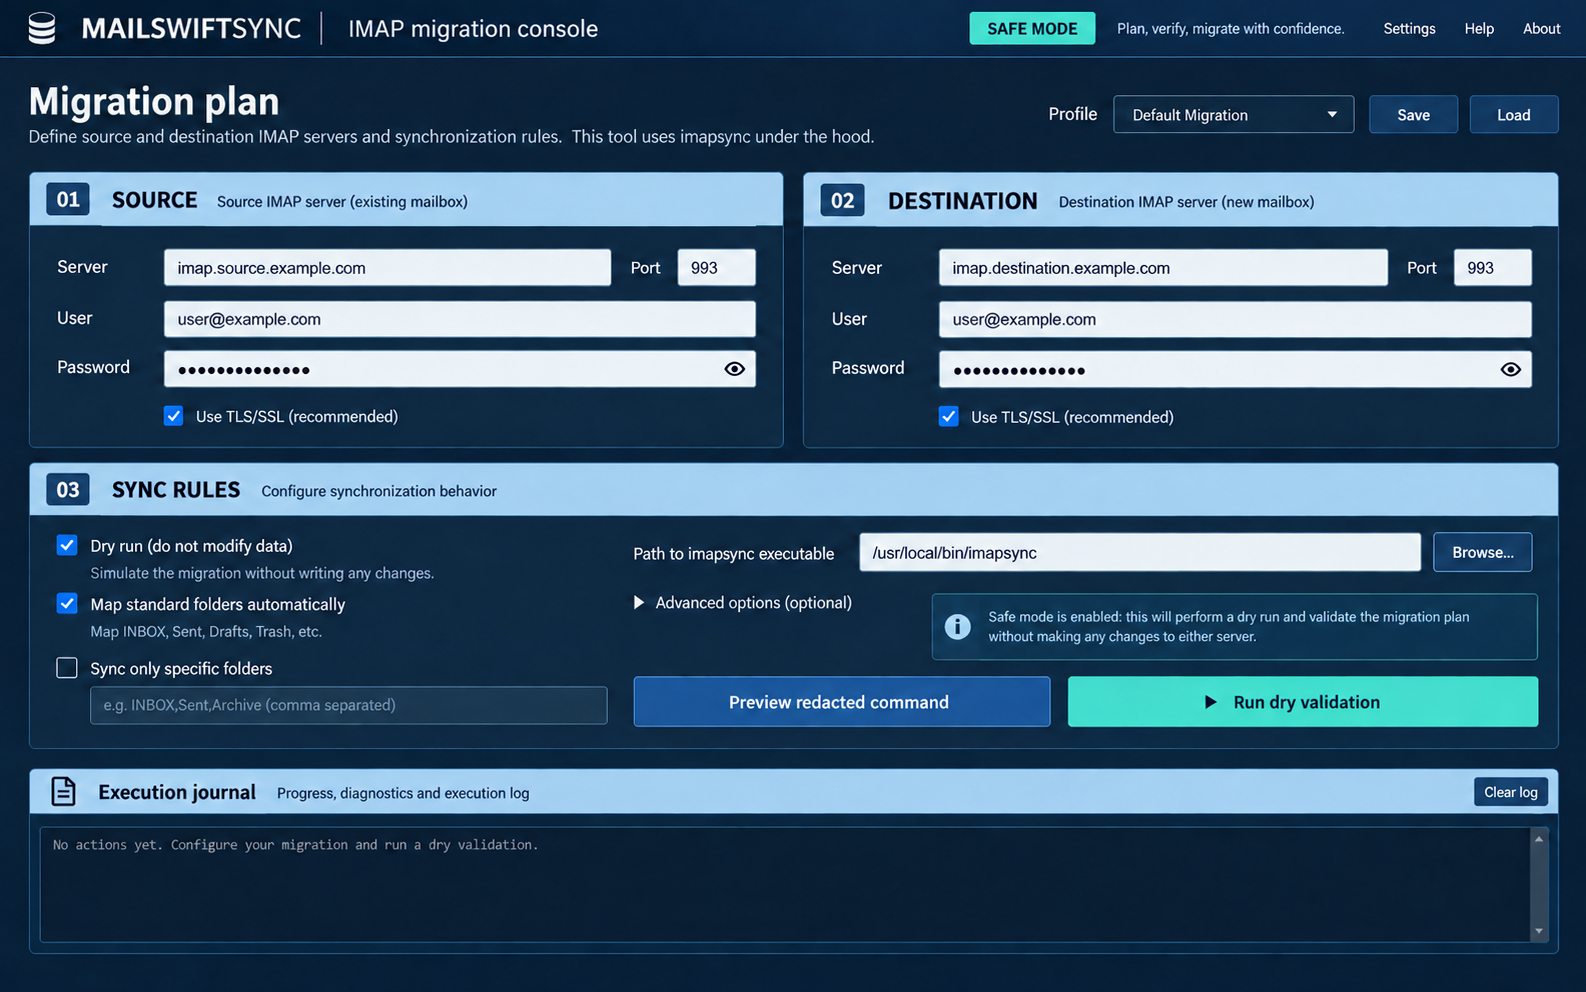
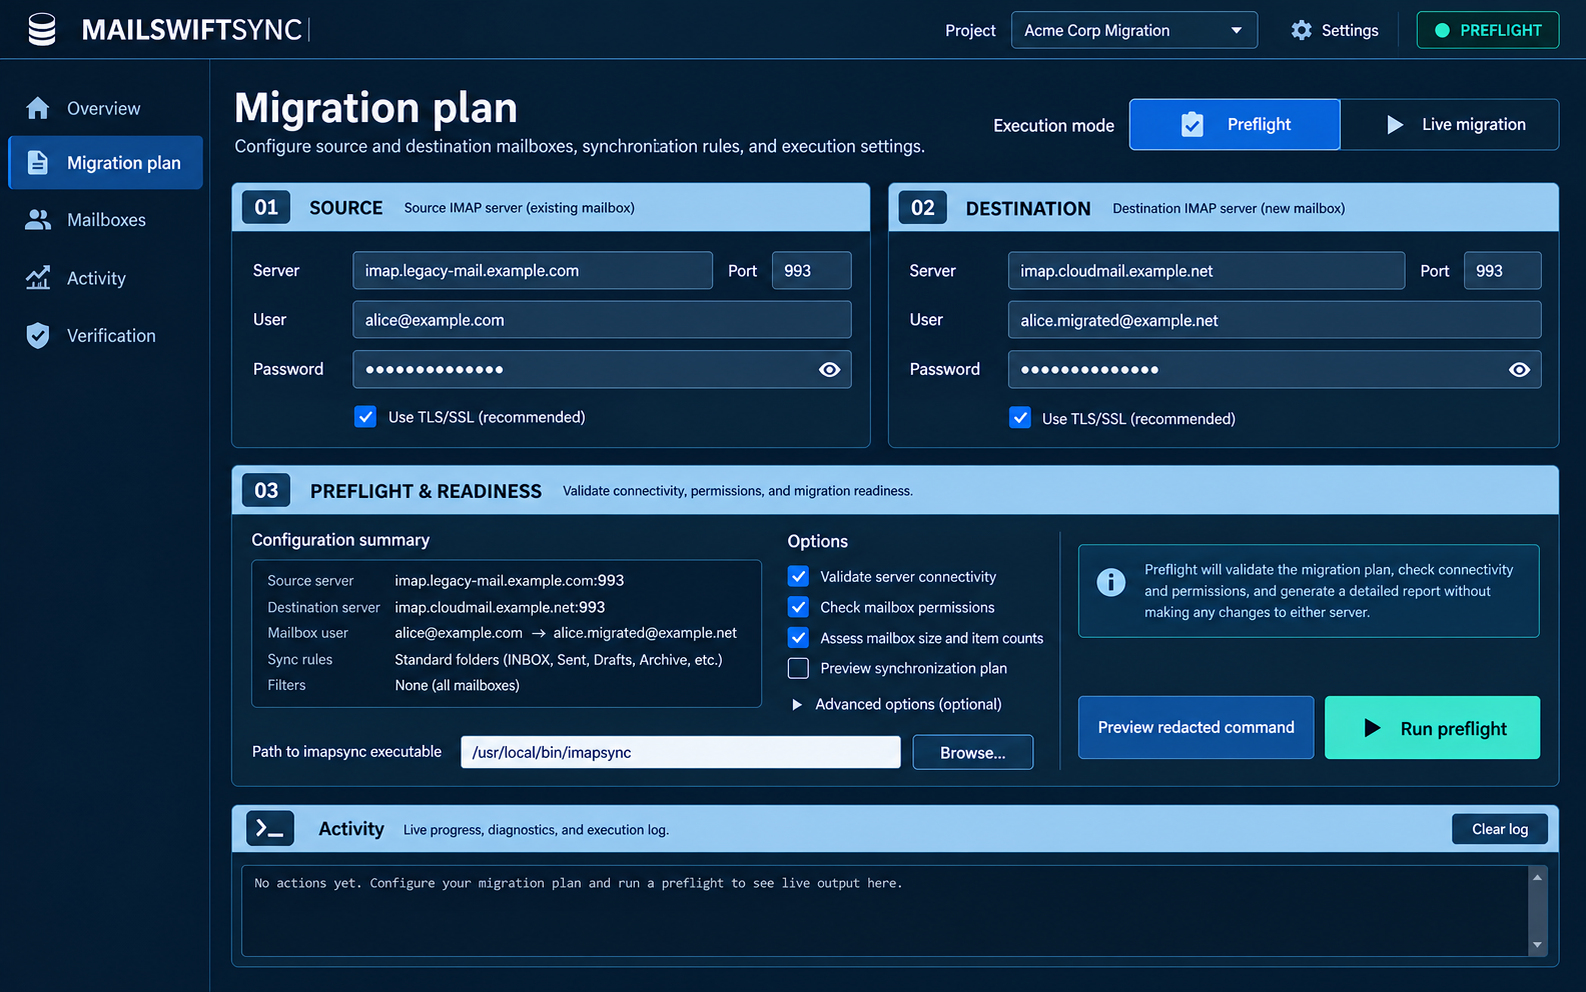
refresh documentation workflow previews

diff --git a/docs/wiki/Bulk-migrations.md b/docs/wiki/Bulk-migrations.md
@@ -2,11 +2,11 @@
 
 Use the **Transient retries** control for short-lived transport failures. MailSwiftSync labels failures as `authentication`, `quota`, `transport`, `configuration`, `message`, or `unknown`; only transport/throttling failures are eligible for retry. Authentication and configuration errors stop clearly, and backoff is cancellation-aware. For imapsync, message/byte throttle targets are divided across concurrent workers and process starts are globally paced; a finite target must be at least the worker count. These are application-level safeguards, not a substitute for provider-specific tenant limits.
 
-MailSwiftSync can import a migration list from CSV, XLS, or XLSX and process rows with a bounded worker pool. Choose 1–16 concurrent workers to balance migration-window speed against provider throttling. Every mailbox must first complete a matching dry validation; after that, the same durable queue can be explicitly promoted to a live batch run. Live execution offers scopes for **Unresolved**, **Failed or Attention only**, **Delta required only**, or **All rows (explicit re-run)**. The default excludes rows already marked **Verified**; use the all-rows scope only when deliberately repeating an evidence-backed migration.
+MailSwiftSync can import a migration list from CSV, XLS, or XLSX and process rows with a bounded worker pool. Choose 1–16 concurrent workers to balance migration-window speed against provider throttling. Every mailbox must first complete a matching preflight; after that, the same durable queue can be explicitly promoted to a live batch run. Live execution offers scopes for **Unresolved**, **Failed or Attention only**, **Delta required only**, or **All rows (explicit re-run)**. The default excludes rows already marked **Verified**; use the all-rows scope only when deliberately repeating an evidence-backed migration.
 
-![Batch migration queue interface](assets/batch-queue.png)
+![Mailboxes workspace workflow preview](assets/batch-queue.png)
 
-> **Documentation illustration:** this image shows the intended batch-review workflow and is not a pixel-accurate capture of the current egui application. Passwords are never shown in the queue.
+> **Workflow preview:** this image illustrates the current batch-review workflow; passwords are never shown in the queue.
 
 ## Create the file
 
@@ -28,15 +28,15 @@ Optional columns are `source_password`, `destination_password`, `source_credenti
 
 ## Import and review
 
-1. Open **Mailboxes** and choose the batch queue/review action.
+1. Open **Mailboxes** and choose **Import / edit queue**.
 2. Click **Import CSV / XLSX…** and select the file.
 3. Review each source and destination in the queue table and enter any missing credentials in the masked fields.
 4. Correct the spreadsheet and import it again if any account is wrong.
-5. Choose a conservative concurrency value and click **Run N dry validations**.
-6. Review the resulting `Ready` states and exact plan fingerprints. Switch off **Simulation mode**, then click **Run N live migrations** and confirm the destructive-action dialog.
+5. Choose a conservative concurrency value and click **Run N preflight checks**.
+6. Review the resulting `Ready` states and exact plan fingerprints. Select **Live migration**, then click **Run N live migrations** and confirm the destructive-action dialog.
 
 ## Run safely
 
-Dry validation and live execution are separate deliberate phases. The batch project and all imported mailbox jobs are committed atomically, with a durable parent wave run and one mailbox-specific child run per row. Child runs remain queued until their worker claims the mailbox, then transition to running with the mailbox in one durable operation. A live batch is allowed only when every selected mailbox has a matching successful dry-validation fingerprint and an operator confirms the queue. Secret-free row configuration is retained so a queue can be restored for review after restart; credentials are intentionally not persisted for replay and must be entered again. Batch startup validates only the selected rows before launching the first process, so credentialless rows that are intentionally excluded do not block a retry. The queue streams indexed output from concurrent workers, supports cancellation and bounded transient retries, and leaves completed/failed/attention child states visible for another delta or retry pass. Each child run retains its engine, launch snapshot, process identity, attempt and terminal result. Live batch verification remains aggregate/engine-dependent; review the exported evidence before declaring the project complete.
+Preflight and live execution are separate deliberate phases. The batch project and all imported mailbox jobs are committed atomically, with a durable parent wave run and one mailbox-specific child run per row. Child runs remain queued until their worker claims the mailbox, then transition to running with the mailbox in one durable operation. A live batch is allowed only when every selected mailbox has a matching successful preflight fingerprint and an operator confirms the queue. Secret-free row configuration is retained so a queue can be restored for review after restart; credentials are intentionally not persisted for replay and must be entered again. Batch startup validates only the selected rows before launching the first process, so credentialless rows that are intentionally excluded do not block a retry. The queue streams indexed output from concurrent workers, supports cancellation and bounded transient retries, and leaves completed/failed/attention child states visible for another delta or retry pass. Each child run retains its engine, launch snapshot, process identity, attempt and terminal result. Live batch verification remains aggregate/engine-dependent; review the exported evidence before declaring the project complete.
 
 Do not commit a spreadsheet containing real passwords to Git, and treat the file as sensitive after import. Imported data exists only in MailSwiftSync memory for the current queue and is not written to the saved profile. For operator-managed work, use keyring IDs in the base profile where practical; provider OAuth and unattended batch secret brokering are not yet implemented.

diff --git a/docs/wiki/Production-runbook.md b/docs/wiki/Production-runbook.md
@@ -16,7 +16,7 @@ This runbook is for attended migrations on a dedicated Unix admin workstation or
 3. Preview the redacted command and confirm the endpoints and mailbox identities. For imapsync, MailSwiftSync owns the journal and passes `--nolog`; do not look for an unmanaged engine log as the audit record.
 4. Run one representative **dry pilot** against a test destination. Resolve authentication, TLS, quota, folder, and configuration failures before increasing scope.
 5. Run the **live pilot** only after the matching preflight succeeds. Confirm the destination again, select Live migration, and accept the live confirmation. If a session password changes or a referenced keyring credential is reloaded, MailSwiftSync requires a new preflight before live promotion.
-6. For a batch, run **bulk dry validation** first, review every row, then promote only the unchanged queue to live. Keep concurrency conservative (normally 1–2 until the provider pair is proven) and never ignore duplicate destinations or Attention items. On a retry, Verified rows are excluded by default; select **Include already verified mailboxes (explicit re-run)** only when you intentionally want to repeat them.
+6. For a batch, run **bulk preflight checks** first, review every row, then promote only the unchanged queue to live. Keep concurrency conservative (normally 1–2 until the provider pair is proven) and never ignore duplicate destinations or Attention items. On a retry, Verified rows are excluded by default; select **Include already verified mailboxes (explicit re-run)** only when you intentionally want to repeat them.
 7. After each live phase, open Verification, review the evidence level and run identity, and export the Markdown/JSON verification report. Export the project-health JSON for the change ticket as well.
 8. Treat `Verified` as evidence-backed completion. Aggregate evidence is not message-level proof; if residual differences are accepted, record the decision and risk in the change ticket until the application provides a durable acceptance action.
 
@@ -54,7 +54,7 @@ destination is not yet reconciled.
 2. Expect interrupted jobs to move to **Attention** and runs to become abandoned. This is conservative recovery, not proof that a transfer failed or succeeded.
 3. Review each Attention item, its classified failure/output, and the destination before retrying. Use the batch queue’s default unresolved-only retry behavior; never enable the explicit Verified re-run option without documenting why.
 4. Confirm no migration engine remains active outside the application. On Windows and macOS, process-recovery guarantees are weaker than the Linux path; prefer a Unix admin host for production windows.
-5. Re-enter credentials as required, rerun dry validation when the plan or credentials changed, and export the resulting evidence after the retry.
+5. Re-enter credentials as required, rerun preflight when the plan or credentials changed, and export the resulting evidence after the retry.
 
 If the application reports **Migration result requires durability review** or a
 `[durability]` error, do not retry the mailbox and do not advance the project

diff --git a/README.md b/README.md
@@ -8,7 +8,7 @@
 
 ![Migration plan](docs/wiki/assets/migration-plan.png)
 
-> Documentation images are workflow illustrations, not pixel-accurate screenshots of the current egui interface. The shipped UI intentionally prioritizes explicit safety state, lifecycle visibility, redacted command review, and operator diagnostics.
+> Documentation images are current workflow previews, not pixel-accurate screenshots of the egui interface. They illustrate the intended operator flow and emphasize explicit safety state, lifecycle visibility, redacted command review, and diagnostics.
 
 MailSwiftSync is for hosting administrators, consultants, and MSPs moving multiple mailboxes between IMAP systems who need more than a command wrapper: a preflightable plan, controlled execution, restart-aware state, and evidence they can hand to a customer.
 
@@ -24,7 +24,7 @@ Stable today:
 
 - Dovecot-native `doveadm sync -1`/`backup` planning and execution, including remote `imapc` sources.
 - `imapsync` fallback for arbitrary IMAP endpoints.
-- CSV/XLS/XLSX batch queue with bounded operator-selected concurrency (1–16 workers), dry validation gates, live execution confirmation, cancellation, retries, and restart-visible child states.
+- CSV/XLS/XLSX batch queue with bounded operator-selected concurrency (1–16 workers), preflight gates, live execution confirmation, cancellation, retries, and restart-visible child states.
 - Explicit imapsync message and byte throttles for provider-friendly single-mailbox runs.
 - Configurable per-process timeout (1–720 hours) so large mailboxes can run longer than the default while hung jobs remain bounded.
 - Bounded transient retry policy for batch validation with cancellation-aware backoff.

diff --git a/docs/wiki/Home.md b/docs/wiki/Home.md
@@ -2,15 +2,15 @@
 
 MailSwiftSync is a local mailbox migration control plane. It uses Dovecot's native `doveadm`/dsync workflow when the destination is Dovecot, and `imapsync` for arbitrary IMAP-to-IMAP work. It helps you plan a migration, test it safely, keep a durable project record, and verify the result.
 
-![Illustrative migration plan screen](assets/migration-plan.png)
+![Migration plan workflow preview](assets/migration-plan.png)
 
-> **Documentation illustration:** this image is a polished workflow mockup, not a pixel-accurate capture of the current egui application. Field values are examples only. The shipped interface is intentionally utilitarian and its current controls are documented below.
+> **Workflow preview:** this image illustrates the current operator flow; field values are examples only and the exact egui layout may change between releases.
 
 ## Start here
 
 1. Install `doveadm` on or use an operator-managed wrapper for the Dovecot destination; install `imapsync` for the fallback path.
-2. Open MailSwiftSync and choose the migration engine.
-3. Leave **Preflight** selected.
+2. Open MailSwiftSync and create or select a migration project.
+3. On **Migration plan**, choose the engine and leave **Preflight** selected.
 4. Enter the source and destination account details.
 5. Preview the redacted command and check the servers and usernames.
 6. Run validation with a test destination mailbox.

diff --git a/docs/wiki/Security-and-profiles.md b/docs/wiki/Security-and-profiles.md
@@ -19,7 +19,7 @@ The application holds an exclusive lock beside the SQLite database while it is o
 ## Recommended practice
 
 - Use provider-issued app passwords where available; OAuth/Modern Auth is not yet implemented by MailSwiftSync.
-- Plain source IMAP requires an explicit acknowledgement before any authenticated operation, including dry preflight, because simulation still transmits credentials and mailbox protocol traffic without transport encryption.
+- Plain source IMAP requires an explicit acknowledgement before any authenticated operation, including preflight, because the check still transmits credentials and mailbox protocol traffic without transport encryption.
 - Start against a test destination mailbox.
 - Keep the source mailbox unchanged during the first migration.
 - Export the verification report and project-health summary for the durable audit record; the visible journal is bounded diagnostic context.

diff --git a/docs/wiki/Troubleshooting.md b/docs/wiki/Troubleshooting.md
@@ -10,7 +10,7 @@ Check the server name, username, and password for the affected side. Many provid
 
 ## Folder mapping is wrong
 
-Run Dry validation and examine the journal. Enable **Map standard folders automatically** first. The Extra imapsync options field is intentionally limited to MailSwiftSync’s documented safe tuning options; unsupported mapping flags must be handled through a typed product control or a reviewed engine-specific workflow.
+Run **Preflight** and examine the journal. Enable **Map standard folders automatically** first. The Extra imapsync options field is intentionally limited to MailSwiftSync’s documented tuning options; unsupported mapping flags must be handled through a typed product control or a reviewed engine-specific workflow.
 
 ## The destination has unexpected mail
 

diff --git a/docs/wiki/Run-a-safe-migration.md b/docs/wiki/Run-a-safe-migration.md
@@ -37,7 +37,7 @@ Click **Preview redacted command**. Confirm:
 
 ## 5. Run validation
 
-Click **Run dry validation**. The **Execution journal** streams output from the selected engine. A successful Dovecot check should authenticate to the remote source and list its mailboxes; a successful imapsync check should show both logins succeeding and a sensible folder map.
+Click **Run preflight**. The **Execution journal** streams output from the selected engine. A successful Dovecot check should authenticate to the remote source and list its mailboxes; a successful imapsync check should show both logins succeeding and a sensible folder map.
 
 ## 6. Run the live migration
 
